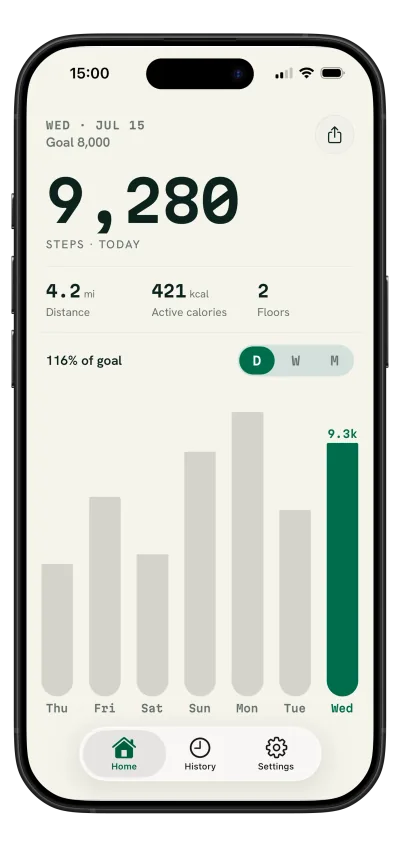
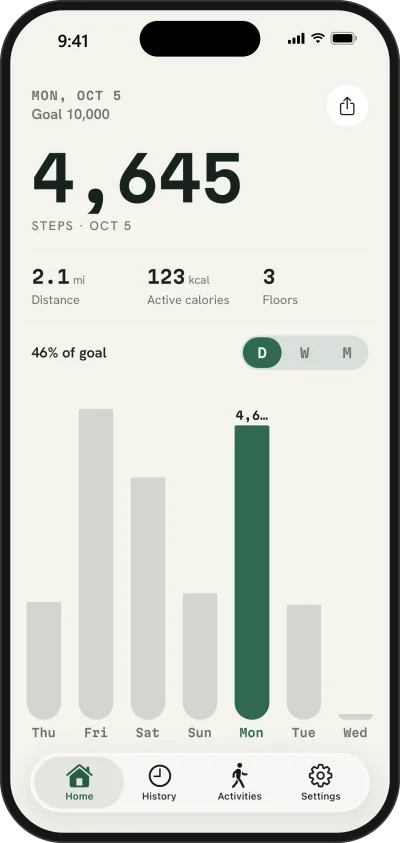
Refresh site screenshots and add themed widget showcase
Frame the latest App Store screenshots with a clean status bar
(scripts/frame-screens.mjs), add a steps-or-distance story, show the
Plus themed widgets in the Themes section and the widget guide, and
drop the old screenshots nothing uses any more.

diff --git a/app/components/HomeSections.tsx b/app/components/HomeSections.tsx
@@ -60,9 +60,9 @@ export function HeroScene() {
       <canvas ref={canvas} className="scene-canvas" aria-hidden="true" />
       <span className="orb one" /><span className="orb two" />
       <div className="hero-badge"><img src="/images/app-icon-128.png" width={42} height={42} alt="" /></div>
-      <PhoneMockup priority className="hero-phone" sizes="(max-width: 850px) 63vw, 305px" src="/images/screens/latest/home-warm-green.webp" alt="Fawnly home screen showing 9,280 steps, distance, active calories, floors, daily goal progress, and a weekly chart" />
-      <PhoneMockup className="side-shot left" sizes="(max-width: 850px) 34vw, 185px" src="/images/screens/latest/home-fawn-pond.webp" alt="Fawnly Fawn Pond illustrated theme" />
-      <PhoneMockup className="side-shot right" sizes="(max-width: 850px) 34vw, 185px" src="/images/screens/latest/home-sheep-meadow.webp" alt="Fawnly Sheep Meadow illustrated theme" />
+      <PhoneMockup priority className="hero-phone" sizes="(max-width: 850px) 63vw, 305px" src="/images/screens/latest/home-sheep-meadow.webp" alt="Fawnly Home in the Sheep Meadow illustrated theme showing 4,645 steps, distance, active calories, floors, 46% of a 10,000-step goal, and a weekly chart" />
+      <PhoneMockup className="side-shot left" sizes="(max-width: 850px) 34vw, 185px" src="/images/screens/latest/home-warm-green.webp" alt="Fawnly Home in the calm Warm Green theme" />
+      <PhoneMockup className="side-shot right" sizes="(max-width: 850px) 34vw, 185px" src="/images/screens/latest/share-card.webp" alt="Fawnly share card in the Heart Bloom theme" />
     </div>
   );
 }
@@ -95,10 +95,11 @@ export function Features() {
 }
 
 const stories = [
-  ["Your day, in one calm glance", "Follow steps, distance, active calories, floors, and goal progress in a Home view that stays quiet and clear.", "/images/screens/latest/home-warm-green.webp", "Fawnly Warm Green Home screen"],
-  ["Watch your progress take shape", "Move between Week, Month, and Year history to see totals, averages, best days, streaks, and distance over time.", "/images/screens/latest/history-month.webp", "Fawnly Month history showing total steps, daily average, best day, goal streak, and distance"],
-  ["Make the app feel like yours", "Choose from calm classic themes and illustrated worlds, then adjust the treatment and hero-number style for readability.", "/images/screens/latest/themes.webp", "Fawnly theme picker showing Fawn Pond and other illustrated themes"],
-  ["Share progress, thoughtfully", "Create polished day, week, or month cards. Route cards use a normalized silhouette instead of an Apple Maps background or raw coordinates.", "/images/screens/latest/share-card.webp", "Fawnly share-card preview using the Fawn Pond illustrated theme"],
+  ["Your day, in one calm glance", "Follow steps, distance, active calories, floors, and goal progress in a Home view that stays quiet and clear.", "/images/screens/latest/home-warm-green.webp", "Fawnly Home in the Warm Green theme showing 4,645 steps, distance, active calories, floors, goal progress, and a weekly chart"],
+  ["Steps or distance, your way", "Lead with steps or make distance the big number on Home, in miles or kilometres. Your other stats and the weekly chart stay right below.", "/images/screens/latest/home-distance.webp", "Fawnly Home leading with 2.1 miles of distance, with steps, active calories, and floors below"],
+  ["Watch your progress take shape", "Move between Week, Month, and Year history to see totals, averages, best days, streaks, and distance over time.", "/images/screens/latest/history-month.webp", "Fawnly Month history showing 77,472 total steps, a daily totals chart, goal days, daily average, best day, and distance"],
+  ["Make the app feel like yours", "Choose from calm classic themes and illustrated worlds, then adjust the treatment and hero-number style for readability.", "/images/screens/latest/themes.webp", "Fawnly theme picker previewing Sheep Meadow with Clear, Fade, Wash, and Tint treatments and other illustrated themes"],
+  ["Share progress, thoughtfully", "Create polished day, week, or month cards. Route cards use a normalized silhouette instead of an Apple Maps background or raw coordinates.", "/images/screens/latest/share-card.webp", "Fawnly day share card in the Heart Bloom theme showing 4,645 steps"],
 ];
 
 export function ScreenshotStory() {
@@ -125,6 +126,15 @@ const themes = [
   ["Fawn Pond", "pond"],
   ["Heart Bloom", "rose"],
   ["Sheep Meadow", "meadow"],
+  ["Maple Brook", "maple"],
+];
+
+const widgets = [
+  ["sheep-meadow", "Sheep Meadow"],
+  ["fawn-pond", "Fawn Pond"],
+  ["honeydew-meadow", "Honeydew Meadow"],
+  ["maple-brook", "Maple Brook"],
+  ["heart-bloom", "Heart Bloom"],
 ];
 
 export function Themes() {
@@ -133,14 +143,13 @@ export function Themes() {
       <div className="wrap">
         <div className="section-intro">
           <div><span className="eyebrow themes-eyebrow">Calm or illustrated</span><h2 className="h2">A little color<br /><span className="serif">goes a long way.</span></h2></div>
-          <p className="muted">Move from a quiet classic palette to an illustrated pond, meadow, or bloom—then choose Clear, Fade, Wash, or Tint.</p>
+          <p className="muted">Move from a quiet classic palette to an illustrated pond, meadow, brook, or bloom—then choose Clear, Fade, Wash, or Tint. With Fawnly Plus, your Home Screen widget wears the same theme.</p>
         </div>
         <div className="theme-grid">{themes.map(([name, style]) => <div className={`theme ${style}`} key={name}>{name}</div>)}</div>
-        <div className="theme-showcase" aria-label="Fawnly illustrated theme previews">
-          <PhoneMockup sizes="(max-width: 850px) 31vw, 225px" src="/images/screens/latest/home-honeydew-meadow.webp" alt="Fawnly Honeydew Meadow illustrated theme with a frog and melons" />
-          <PhoneMockup sizes="(max-width: 850px) 31vw, 225px" src="/images/screens/latest/home-fawn-pond.webp" alt="Fawnly Fawn Pond illustrated theme with a deer beside a pond" />
-          <PhoneMockup sizes="(max-width: 850px) 31vw, 225px" src="/images/screens/latest/home-heart-bloom.webp" alt="Fawnly Heart Bloom illustrated pink theme" />
+        <div className="widget-showcase" aria-label="Fawnly themed Home Screen widgets">
+          {widgets.map(([file, name]) => <img key={file} src={`/images/widgets/${file}-520w.webp`} srcSet={`/images/widgets/${file}-520w.webp 520w, /images/widgets/${file}.webp 1030w`} sizes="(max-width: 850px) 46vw, 340px" width={1030} height={484} loading="lazy" decoding="async" alt={`Fawnly medium Home Screen widget in the ${name} theme showing today’s steps, goal progress, distance, calories, and floors`} />)}
         </div>
+        <p className="widget-note">Themed widgets with Fawnly Plus</p>
       </div>
     </section>
   );
@@ -164,6 +173,7 @@ export function Plus() {
         <div><span className="eyebrow plus-eyebrow">Go further with Fawnly Plus</span><h2 className="h2">More ways to move.<br /><span className="serif">More ways to make it yours.</span></h2><p>Fawnly Plus is an optional monthly or yearly subscription. Localized pricing is shown before purchase.</p><AppStoreButton /></div>
         <ul>
           <li>All premium and illustrated themes</li>
+          <li>Home Screen widgets in your theme</li>
           <li>Custom hero fonts and distance-first Home</li>
           <li>Month and Year history, plus older periods</li>
           <li>Week and Month share cards</li>

diff --git a/app/globals.css b/app/globals.css
@@ -99,17 +99,18 @@ img { max-width: 100%; }
 .themes .h2 { color: #f5f2e8; }
 .themes .muted { color: #becdc0; }
 .themes-eyebrow { color: #e5ba78; }
-.theme-grid { display: grid; grid-template-columns: repeat(5, 1fr); gap: 10px; }
+.theme-grid { display: grid; grid-template-columns: repeat(6, 1fr); gap: 10px; }
 .theme { display: flex; align-items: end; min-height: 148px; padding: 15px; border-radius: 22px; font-size: .7rem; font-weight: 750; }
 .theme.green { background: linear-gradient(145deg, #dcebe2, #b8d8c4); color: #123b2c; }
 .theme.honeydew { background: linear-gradient(145deg, #eef4bf, #a7cb6d); color: #244b2b; }
 .theme.pond { background: linear-gradient(145deg, #70c8dd 0 58%, #d56a1b 58%); color: #102f3b; }
 .theme.rose { background: linear-gradient(145deg, #f2bdcf, #d8387c); color: #692238; }
 .theme.meadow { background: linear-gradient(145deg, #d8f0c0, #3b8d4f); color: #143d27; }
-.theme-showcase { display: flex; align-items: end; justify-content: center; gap: clamp(12px, 3vw, 36px); max-width: 900px; margin: 62px auto -170px; }
-.theme-showcase .device-shot { width: min(225px, 25vw); }
-.theme-showcase .device-shot:nth-child(1) { transform: rotate(-5deg) translateY(18px); }
-.theme-showcase .device-shot:nth-child(3) { transform: rotate(5deg) translateY(18px); }
+.theme.maple { background: linear-gradient(145deg, #f3dcb8, #b4472a); color: #4a1f12; }
+.widget-showcase { display: flex; flex-wrap: wrap; justify-content: center; gap: 22px; max-width: 1110px; margin: 62px auto 0; }
+.widget-showcase img { width: min(340px, 100%); height: auto; filter: drop-shadow(0 18px 28px #0000004d); }
+.widget-note { margin: 22px 0 0; color: #e5ba78; font-size: .78rem; font-weight: 750; text-align: center; }
+.blog-widget { display: block; width: min(420px, 100%); height: auto; margin: 0 auto 16px; filter: drop-shadow(0 18px 28px #123a2030); }
 
 .privacy-callout { padding-block: 88px; }
 .privacy-card { padding: 46px 50px; background: #edf3ed; }
@@ -249,8 +250,8 @@ img { max-width: 100%; }
   .activity-phone { width: min(285px, 72vw); }
   .theme-grid { grid-template-columns: repeat(2, 1fr); }
   .theme { min-height: 110px; }
-  .theme-showcase { gap: 5px; margin: 48px auto -118px; }
-  .theme-showcase .device-shot { width: 31vw; }
+  .widget-showcase { gap: 10px; margin-top: 40px; }
+  .widget-showcase img { width: calc(50% - 5px); }
   .privacy-card { padding: 34px 28px; }
   .blog-grid, .support-list { grid-template-columns: 1fr; }
   .footer-grid, .footer-bottom { display: block; }

diff --git a/app/blog/[slug]/page.tsx b/app/blog/[slug]/page.tsx
@@ -270,6 +270,14 @@ function HomeScreenStepsArticle() {
               <li><strong>Place it where you’ll notice it.</strong> Drag it into position and tap Done.</li>
             </ol>
             <p>You should now have a view of today’s steps and goal progress on your Home Screen. Apple’s <a href="https://support.apple.com/en-us/118610">widget setup guide</a> also covers adding and rearranging widgets.</p>
+          </div>
+
+          <figure className="blog-app-figure">
+            <img className="blog-widget" src="/images/widgets/sheep-meadow-520w.webp" srcSet="/images/widgets/sheep-meadow-520w.webp 520w, /images/widgets/sheep-meadow.webp 1030w" sizes="(max-width: 850px) 90vw, 420px" width={1030} height={484} loading="lazy" decoding="async" alt="Fawnly medium Home Screen widget in the Sheep Meadow theme showing today’s steps, goal progress, distance, calories, and floors" />
+            <figcaption>The medium Fawnly widget shows today’s steps, goal progress, distance, calories, and floors. With Fawnly Plus, it can match your illustrated theme.</figcaption>
+          </figure>
+
+          <div className="prose blog-prose">
 
             <h2 id="make-it-useful">3. Make it useful for your day</h2>
             <p>Try keeping the widget on your first Home Screen, near something you open often. If you tuck it inside a rotating widget stack, your steps may not always be the item you see.</p>
@@ -491,7 +499,7 @@ function StepsADayArticle() {
             <div className="post-cover">
               <PhoneMockup src={post.image} alt={post.imageAlt} />
             </div>
-            <figcaption>Fawnly’s Home screen with an 8,000-step goal. You can change the goal at any time, or turn it off.</figcaption>
+            <figcaption>Fawnly’s Home screen with a 10,000-step goal. You can change the goal at any time, or turn it off.</figcaption>
           </figure>
 
           <div className="prose blog-prose">

diff --git a/app/content/blogPosts.ts b/app/content/blogPosts.ts
@@ -23,7 +23,7 @@ export const blogPosts: BlogPost[] = [
     tags: ["Apple Health", "Troubleshooting", "Step count"],
     author: "Fawnly Team",
     image: "/images/screens/latest/history-month.webp",
-    imageAlt: "Fawnly Month history showing total steps, daily average, best day, goal streak, and distance",
+    imageAlt: "Fawnly Month history showing total steps, a daily totals chart, goal days, daily average, best day, and distance",
     socialImage: "/images/blog/iphone-not-counting-steps-og.png",
   },
   {
@@ -35,8 +35,8 @@ export const blogPosts: BlogPost[] = [
     slug: "how-many-steps-a-day",
     tags: ["Step goals", "Walking", "Health research"],
     author: "Fawnly Team",
-    image: "/images/screens/latest/home-honeydew-meadow.webp",
-    imageAlt: "Fawnly Honeydew Meadow theme showing 9,280 steps, 116% of an 8,000-step daily goal, and a weekly chart",
+    image: "/images/screens/latest/home-sheep-meadow.webp",
+    imageAlt: "Fawnly Sheep Meadow theme showing 4,645 steps, 46% of a 10,000-step daily goal, and a weekly chart",
     socialImage: "/images/blog/how-many-steps-a-day-og.png",
   },
   {
@@ -75,7 +75,7 @@ export const blogPosts: BlogPost[] = [
     tags: ["iPhone step tracking", "Apple Health", "Walking"],
     author: "Fawnly Team",
     image: "/images/screens/latest/home-warm-green.webp",
-    imageAlt: "Fawnly on iPhone showing 9,280 steps, distance, active calories, floors, a daily goal, and a weekly chart",
+    imageAlt: "Fawnly on iPhone showing 4,645 steps, distance, active calories, floors, a daily goal, and a weekly chart",
     socialImage: "/images/blog/how-to-track-steps-iphone-og.png",
   },
 ];

diff --git a/app/components/PhoneMockup.tsx b/app/components/PhoneMockup.tsx
@@ -7,7 +7,7 @@ function sizedSrc(src: string, width: number) {
   return src.replace(/\.webp$/, `-${width}w.webp`);
 }
 
-export function PhoneMockup({src,alt,className="",priority=false,width=1390,height=2943,sizes="(max-width: 850px) 68vw, 320px"}:{src:string;alt:string;className?:string;priority?:boolean;width?:number;height?:number;sizes?:string}) {
+export function PhoneMockup({src,alt,className="",priority=false,width=1243,height=2620,sizes="(max-width: 850px) 68vw, 320px"}:{src:string;alt:string;className?:string;priority?:boolean;width?:number;height?:number;sizes?:string}) {
   const srcSet = SCREEN_WIDTHS.map((w) => `${sizedSrc(src, w)} ${w}w`).join(", ");
   if (priority) preload(sizedSrc(src, 640), { as: "image", imageSrcSet: srcSet, imageSizes: sizes, fetchPriority: "high" });
 
